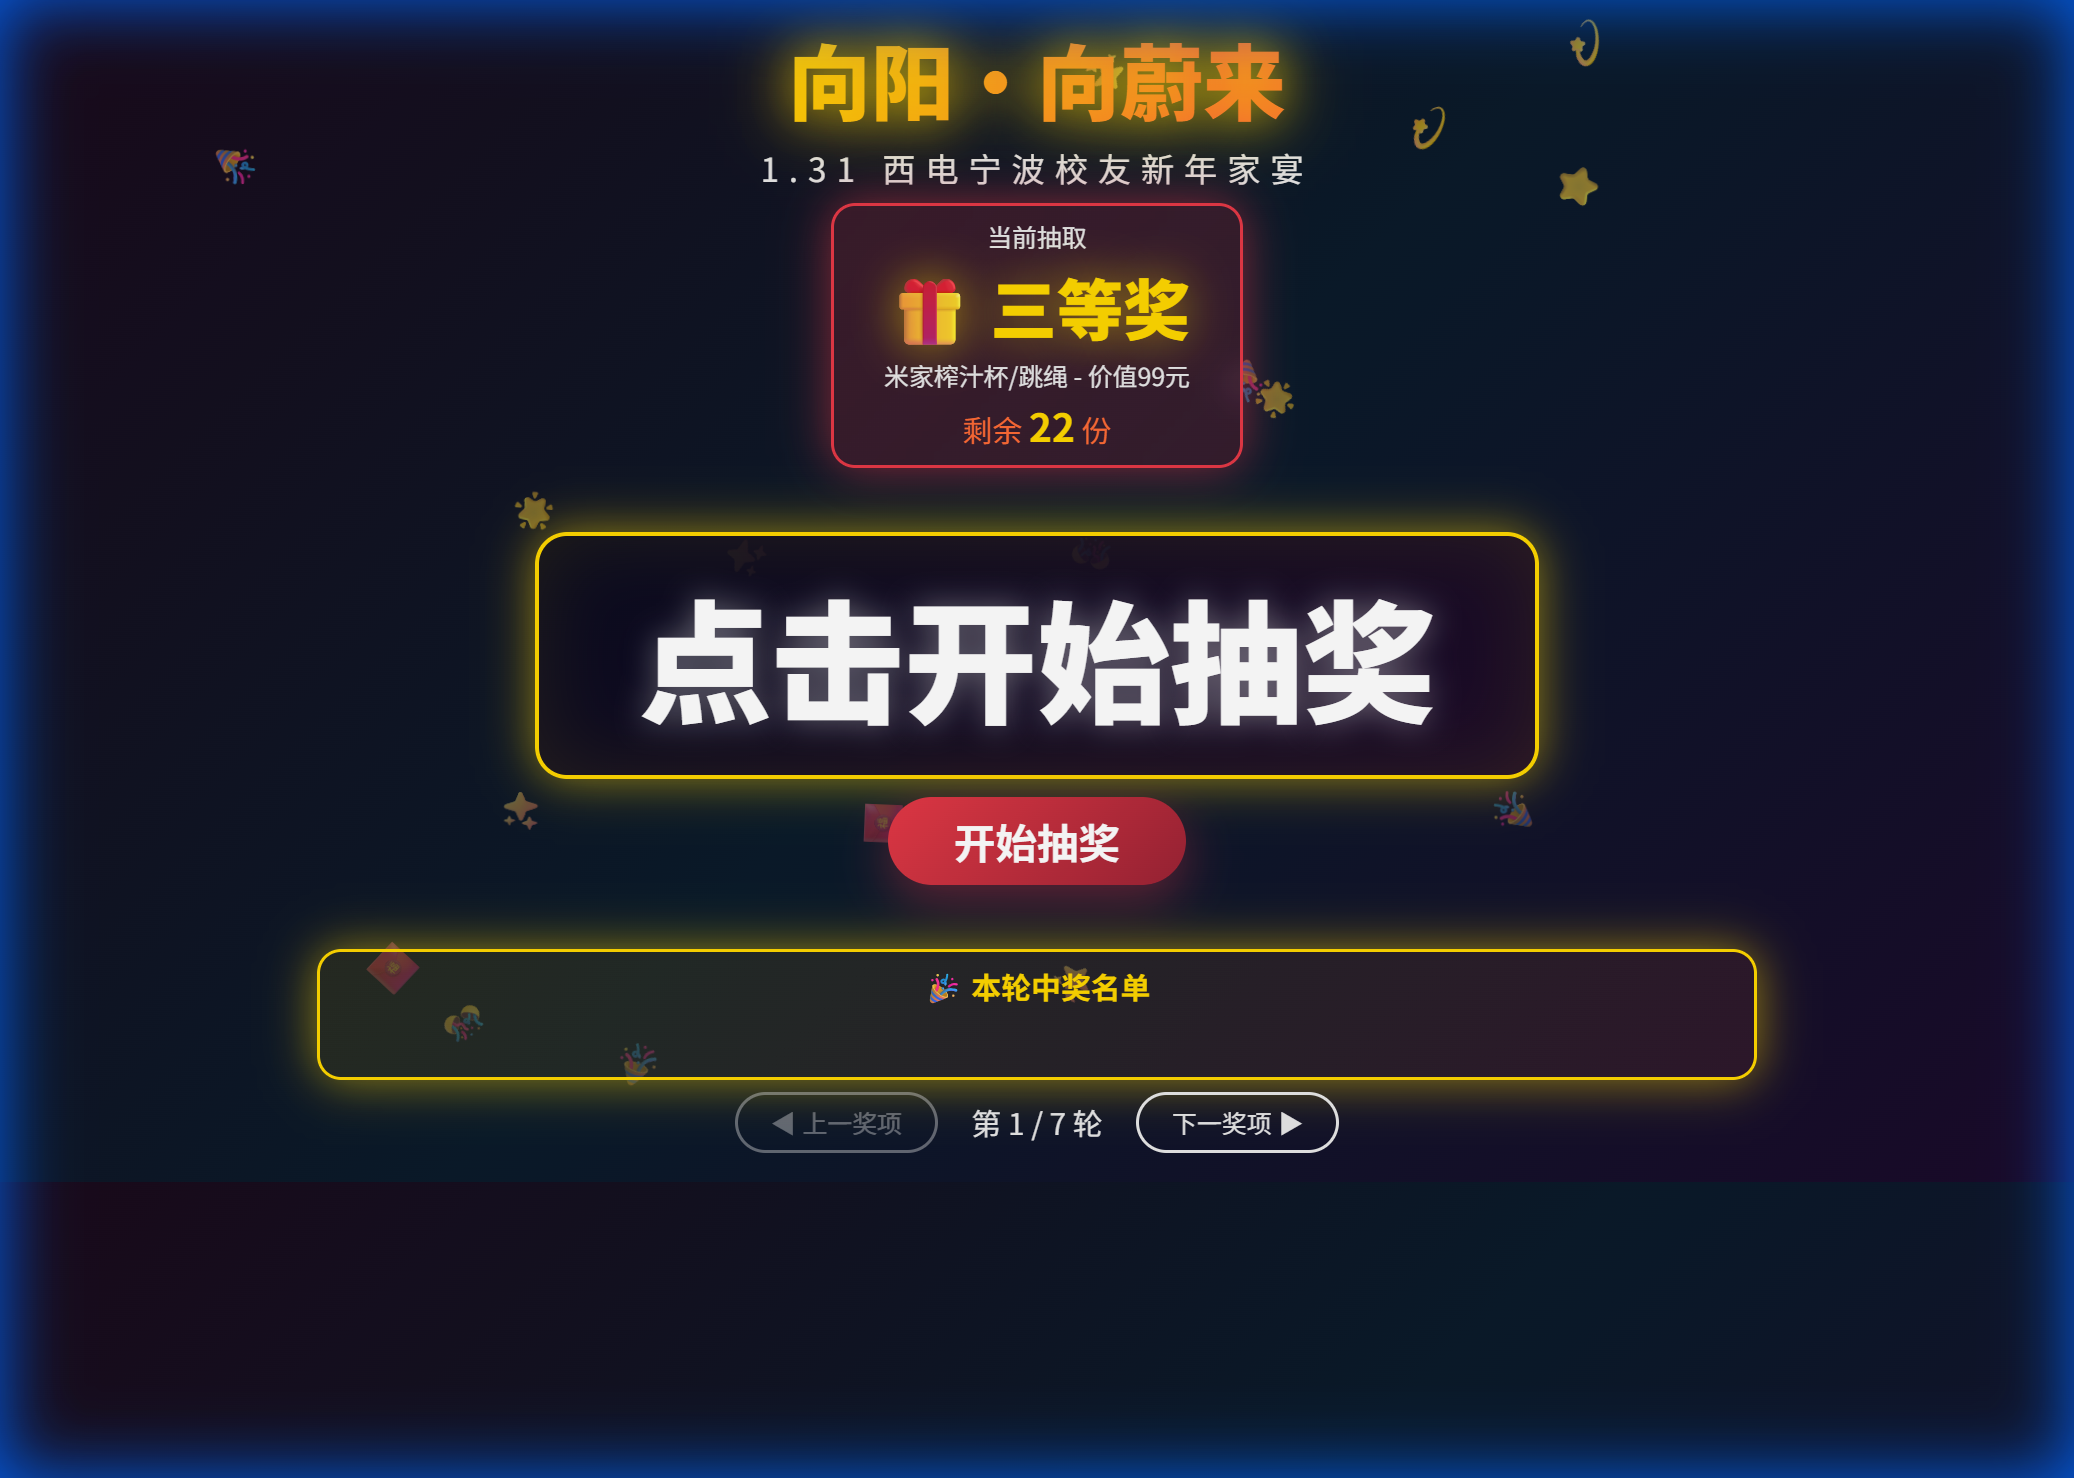
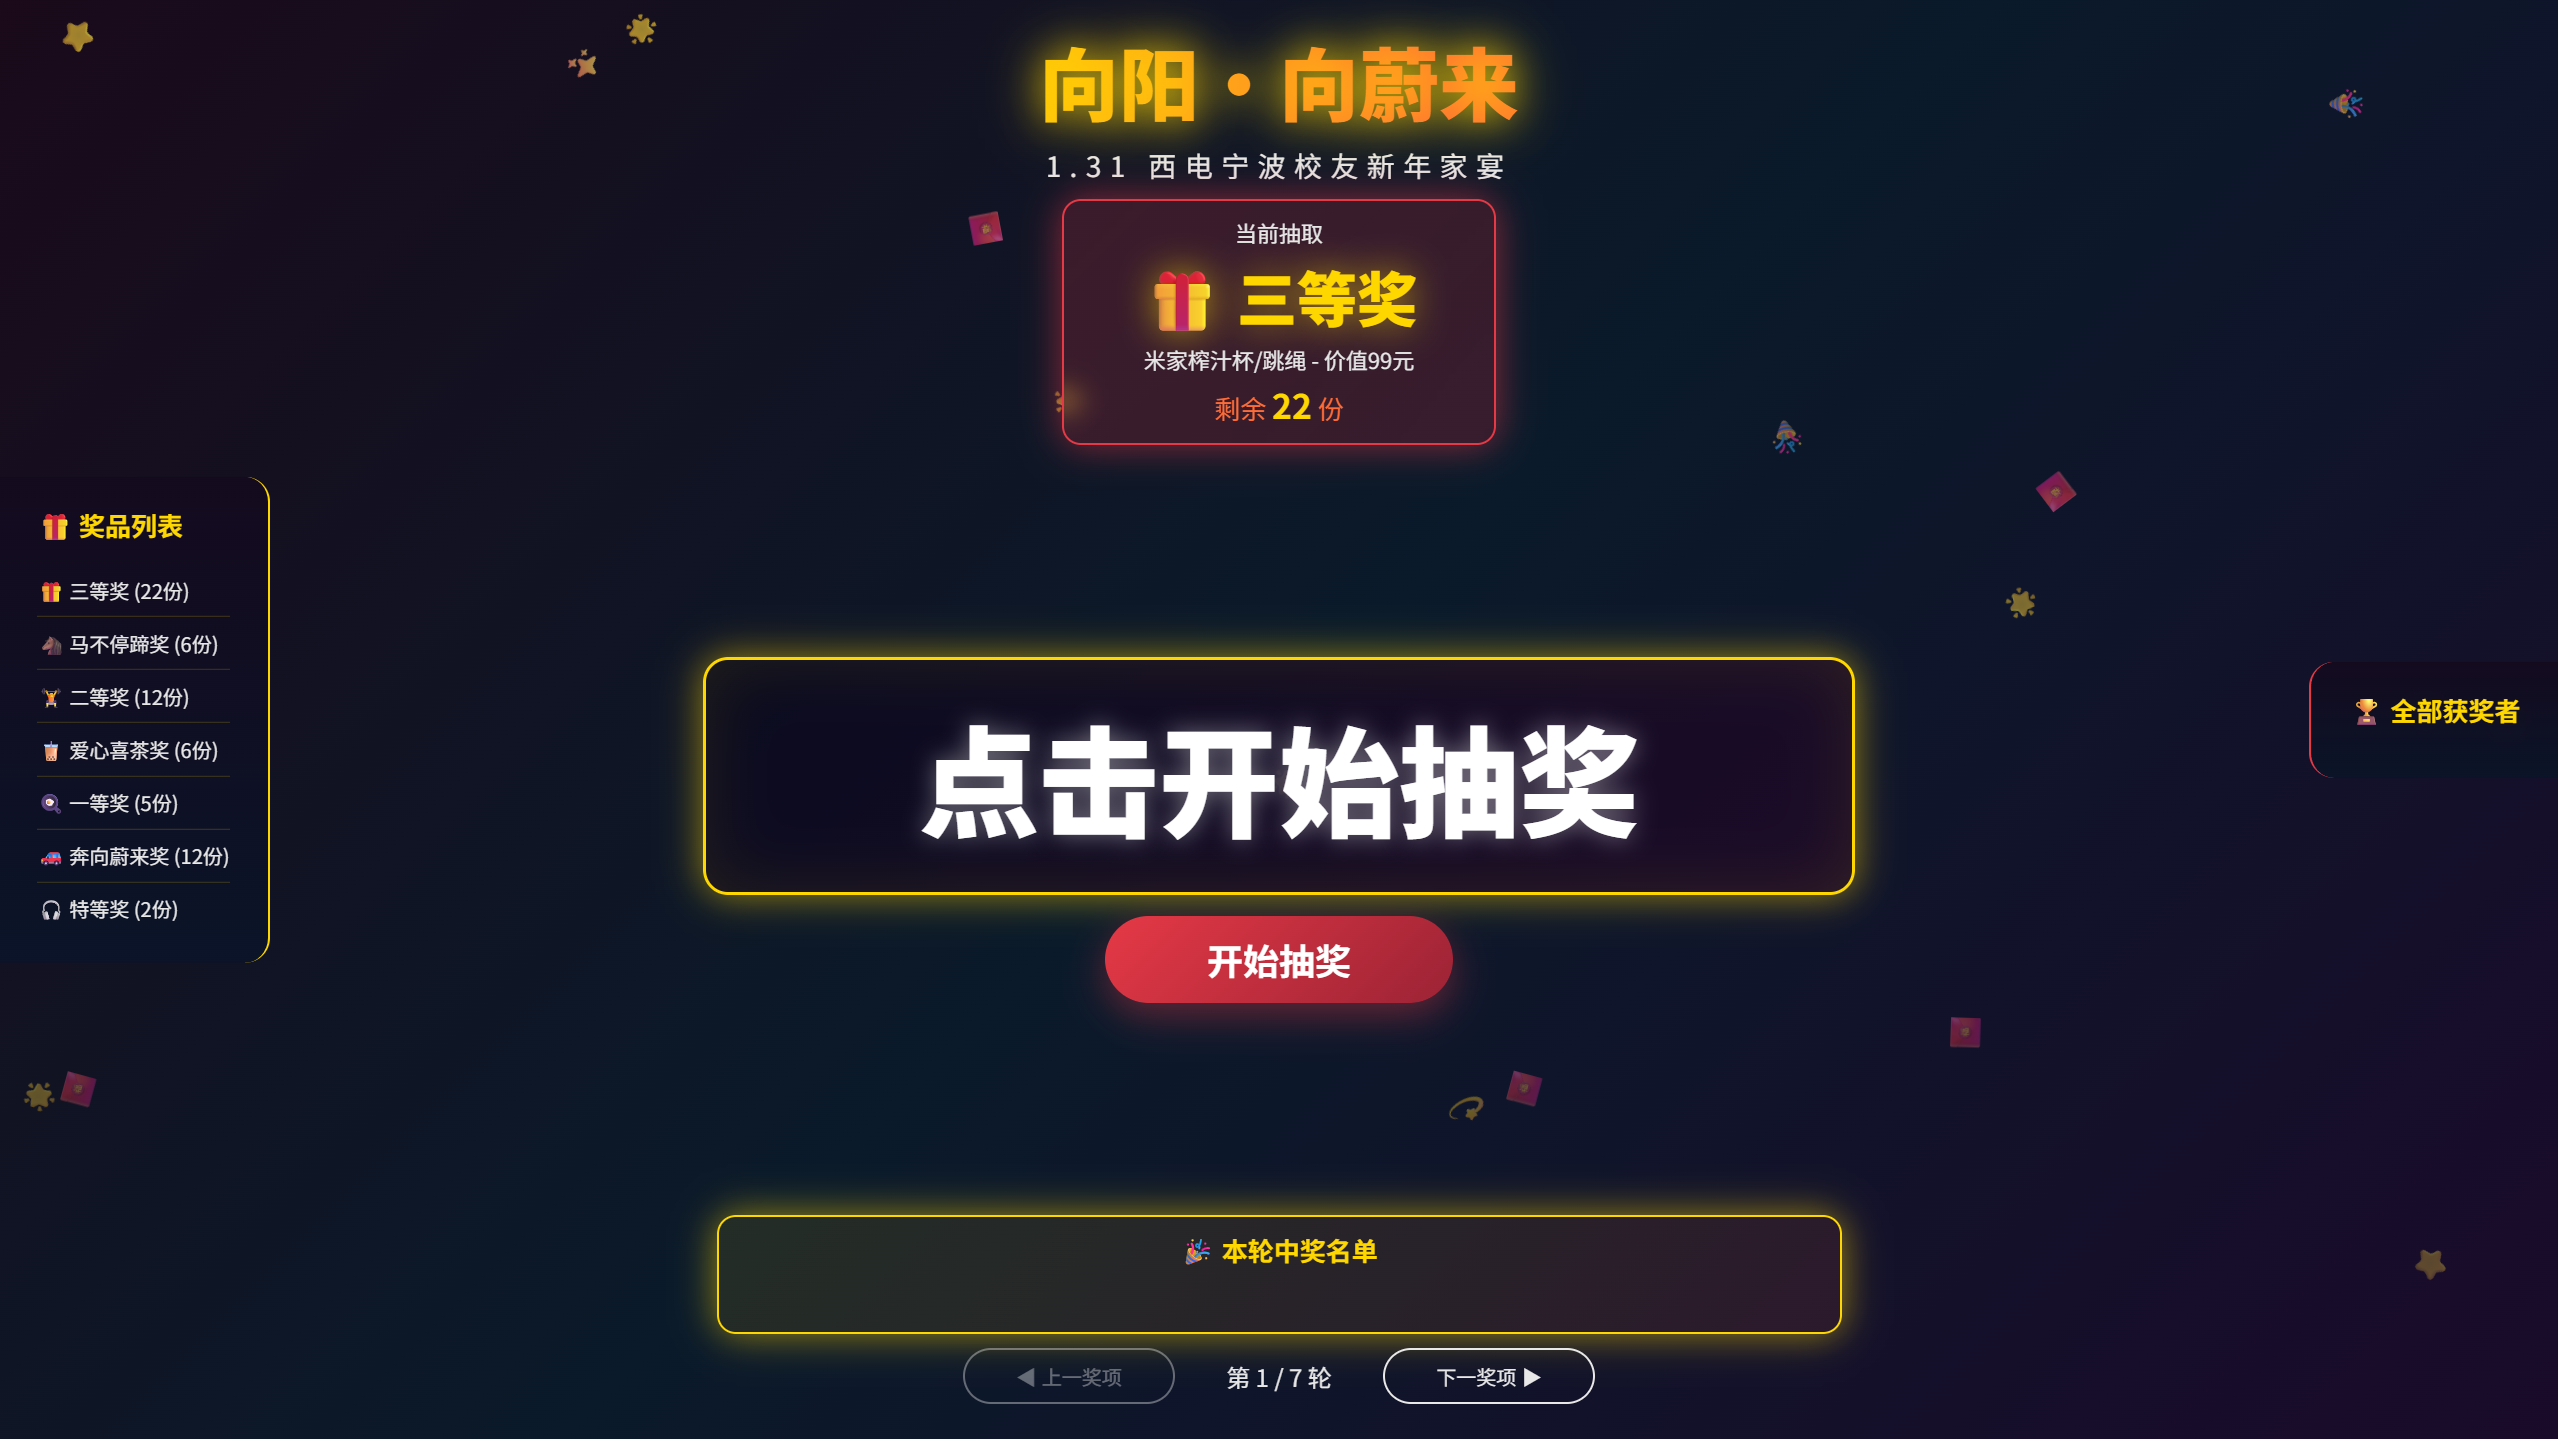
feat: add state persistence, secure random, reset button, and CLAUDE.md
- Add localStorage persistence for lottery state (survives refresh)
- Replace Math.random with crypto.getRandomValues (modulo bias elimination)
- Add reset button with confirmation dialog
- Add keyboard shortcuts (Space, Arrow keys)
- Optimize fireworks with DocumentFragment batch insertion
- Improve BGM autoplay retry logic
- Add CLAUDE.md for Claude Code guidance

diff --git a/script.js b/script.js
@@ -7,8 +7,15 @@
 // ========================================
 
 
-// 创建全局音效实例
-
+// 安全随机数生成（消除模偏差）
+function secureRandom(max) {
+    const array = new Uint32Array(1);
+    const limit = Math.floor(0xFFFFFFFF / max) * max;
+    do {
+        crypto.getRandomValues(array);
+    } while (array[0] >= limit);
+    return array[0] % max;
+}
 
 // 参与者名单
 const attendants = [
@@ -93,20 +100,73 @@ const fireworksContainer = document.getElementById('fireworksContainer');
 const fallingElements = document.getElementById('fallingElements');
 const bgm = document.getElementById('bgm');
 
+// 状态持久化
+function saveState() {
+    localStorage.setItem('lotteryState', JSON.stringify({
+        allWinners,
+        currentPrizeIndex,
+        remainingAttendants
+    }));
+}
+
+function loadState() {
+    const saved = localStorage.getItem('lotteryState');
+    if (!saved) return false;
+    try {
+        const state = JSON.parse(saved);
+        if (!Array.isArray(state.remainingAttendants) || typeof state.allWinners !== 'object') {
+            throw new Error('invalid');
+        }
+        allWinners = state.allWinners;
+        currentPrizeIndex = Math.min(state.currentPrizeIndex, prizeConfig.length - 1);
+        remainingAttendants = state.remainingAttendants;
+        return true;
+    } catch (e) {
+        localStorage.removeItem('lotteryState');
+        return false;
+    }
+}
+
+function resetState() {
+    if (!confirm('确定要重置所有抽奖结果吗？')) return;
+    localStorage.removeItem('lotteryState');
+    currentPrizeIndex = 0;
+    remainingAttendants = [...attendants];
+    allWinners = {};
+    prizeConfig.forEach(prize => { allWinners[prize.name] = []; });
+    currentRoundWinners = [];
+    updatePrizeDisplay();
+    renderAllWinners();
+    renderPrizeList();
+    updatePrizeListHighlight();
+}
+
 // 初始化
 function init() {
+    // 初始化每个奖项的获奖者数组（先初始化再加载，确保结构完整）
+    prizeConfig.forEach(prize => {
+        allWinners[prize.name] = [];
+    });
+
+    // 尝试恢复上次状态
+    loadState();
+
     updatePrizeDisplay();
     renderPrizeList();
+    renderAllWinners();
     initFallingElements();
     playBgm();
 
     lotteryBtn.addEventListener('click', handleLotteryClick);
     prevPrizeBtn.addEventListener('click', () => changePrize(-1));
     nextPrizeBtn.addEventListener('click', () => changePrize(1));
+    document.getElementById('resetBtn').addEventListener('click', resetState);
 
-    // 初始化每个奖项的获奖者数组
-    prizeConfig.forEach(prize => {
-        allWinners[prize.name] = [];
+    // 键盘快捷键
+    document.addEventListener('keydown', (e) => {
+        if (e.code === 'Space') { e.preventDefault(); handleLotteryClick(); }
+        if (e.code === 'ArrowLeft') changePrize(-1);
+        if (e.code === 'ArrowRight') changePrize(1);
     });
 }
 
@@ -138,18 +198,15 @@ function updatePrizeDisplay() {
     if (remaining <= 0) {
         nameDisplay.textContent = "本奖项已抽完";
         lotteryBtn.disabled = true;
-        lotteryBtn.style.opacity = "0.5";
     } else {
         nameDisplay.textContent = "点击开始抽奖";
         lotteryBtn.disabled = false;
-        lotteryBtn.style.opacity = "1";
     }
 
     // 检查是否还有人可抽
     if (remainingAttendants.length === 0) {
         nameDisplay.textContent = "所有人已中奖";
         lotteryBtn.disabled = true;
-        lotteryBtn.style.opacity = "0.5";
     }
 }
 
@@ -244,7 +301,7 @@ function startRolling() {
     // 快速滚动名字
     let rollSpeed = 50;
     rollInterval = setInterval(() => {
-        const randomIndex = Math.floor(Math.random() * remainingAttendants.length);
+        const randomIndex = secureRandom(remainingAttendants.length);
         nameDisplay.textContent = remainingAttendants[randomIndex];
     }, rollSpeed);
 }
@@ -258,8 +315,8 @@ function stopRolling() {
     lotteryBtn.querySelector('.btn-text').textContent = '开始抽奖';
     nameDisplay.classList.remove('rolling');
 
-    // 随机选择最终中奖者
-    const winnerIndex = Math.floor(Math.random() * remainingAttendants.length);
+    // 随机选择最终中奖者（使用密码学安全随机数）
+    const winnerIndex = secureRandom(remainingAttendants.length);
     const winner = remainingAttendants[winnerIndex];
 
     // 从待抽名单中移除
@@ -284,25 +341,33 @@ function stopRolling() {
 
     // 触发烟花效果
     triggerFireworks();
+
+    // 持久化状态
+    saveState();
 }
 
-// 烟花效果
+// 烟花效果（使用 DocumentFragment 批量插入减少回流）
 function triggerFireworks() {
     const colors = ['#ffd700', '#ff6b35', '#e63946', '#ff1493', '#00ff88'];
+    const batchSize = 10;
+    const totalBatches = 5;
 
-    for (let i = 0; i < 50; i++) {
+    for (let batch = 0; batch < totalBatches; batch++) {
         setTimeout(() => {
-            const firework = document.createElement('div');
-            firework.className = 'firework';
-            firework.style.left = Math.random() * 100 + 'vw';
-            firework.style.top = Math.random() * 60 + 20 + 'vh';
-            firework.style.backgroundColor = colors[Math.floor(Math.random() * colors.length)];
-            firework.style.boxShadow = `0 0 10px ${firework.style.backgroundColor}`;
-
-            fireworksContainer.appendChild(firework);
-
-            setTimeout(() => firework.remove(), 1500);
-        }, i * 30);
+            const fragment = document.createDocumentFragment();
+            for (let i = 0; i < batchSize; i++) {
+                const firework = document.createElement('div');
+                firework.className = 'firework';
+                const color = colors[secureRandom(colors.length)];
+                firework.style.left = Math.random() * 100 + 'vw';
+                firework.style.top = Math.random() * 60 + 20 + 'vh';
+                firework.style.backgroundColor = color;
+                firework.style.boxShadow = `0 0 10px ${color}`;
+                firework.addEventListener('animationend', () => firework.remove());
+                fragment.appendChild(firework);
+            }
+            fireworksContainer.appendChild(fragment);
+        }, batch * 150);
     }
 }
 
@@ -321,20 +386,16 @@ function initFallingElements() {
     }
 }
 
-// 播放背景音乐
+// 播放背景音乐（持续尝试直到成功）
 function playBgm() {
-    bgm.volume = 0.5; // 设置初始音量
-    const playPromise = bgm.play();
-
-    if (playPromise !== undefined) {
-        playPromise.catch(error => {
-            console.log("自动播放被阻止，等待用户交互");
-            // 添加一次性点击事件来触发播放
-            document.body.addEventListener('click', () => {
-                bgm.play();
-            }, { once: true });
-        });
-    }
+    bgm.volume = 0.5;
+    const tryPlay = () => {
+        bgm.play().then(() => {
+            document.removeEventListener('click', tryPlay);
+        }).catch(() => {});
+    };
+    tryPlay();
+    document.addEventListener('click', tryPlay);
 }
 
 // 启动

diff --git a/style.css b/style.css
@@ -142,7 +142,6 @@ body {
     background-clip: text;
     -webkit-text-fill-color: transparent;
     animation: shine 3s linear infinite;
-    text-shadow: var(--glow-gold);
     filter: drop-shadow(0 0 20px rgba(255, 215, 0, 0.5));
 }
 
@@ -312,16 +311,15 @@ body {
     transform: translateY(0);
 }
 
+.lottery-btn:disabled {
+    opacity: 0.5;
+    cursor: not-allowed;
+    transform: none;
+    box-shadow: none;
+}
+
 .lottery-btn.running {
     background: linear-gradient(135deg, var(--warm-orange), var(--primary-red));
-}
-
-.lottery-btn.running .btn-text::after {
-    content: '停止抽奖';
-}
-
-.lottery-btn.running .btn-text {
-    font-size: 0;
 }
 
 .btn-glow {
@@ -432,6 +430,18 @@ body {
 .round-indicator {
     font-size: clamp(0.9rem, 1.8vw, 1.2rem);
     color: var(--text-light);
+}
+
+.reset-btn {
+    border-color: var(--primary-red);
+    color: var(--primary-red);
+    margin-left: 1vw;
+}
+
+.reset-btn:hover {
+    background: var(--primary-red);
+    border-color: var(--primary-red);
+    color: var(--text-white);
 }
 
 /* ========================================

diff --git a/index.html b/index.html
@@ -7,6 +7,9 @@
     <title>向阳·向蔚来 - 西电宁波校友新年家宴抽奖</title>
     <link rel="stylesheet" href="style.css">
     <link href="https://fonts.googleapis.com/css2?family=Noto+Sans+SC:wght@400;700;900&display=swap" rel="stylesheet">
+    <style>
+        body { font-family: 'Noto Sans SC', -apple-system, BlinkMacSystemFont, 'Segoe UI', sans-serif; }
+    </style>
 </head>
 
 <body>
@@ -66,6 +69,7 @@
             <button class="nav-btn" id="prevPrize" disabled>◀ 上一奖项</button>
             <span class="round-indicator" id="roundIndicator">第 1 / 7 轮</span>
             <button class="nav-btn" id="nextPrize">下一奖项 ▶</button>
+            <button class="nav-btn reset-btn" id="resetBtn">🔄 重置</button>
         </section>
     </div>
 

diff --git a/CLAUDE.md b/CLAUDE.md
@@ -1,0 +1,42 @@
+# CLAUDE.md
+
+This file provides guidance to Claude Code (claude.ai/code) when working with code in this repository.
+
+## Project Overview
+
+A live lottery/raffle system built for the Xidian University Ningbo Alumni New Year banquet ("向阳·向蔚来"). Pure static frontend — HTML/CSS/JS with no build tools, no framework, no dependencies.
+
+## Running
+
+Open `index.html` directly in a browser (Chrome/Edge recommended). Press F11 for fullscreen. No build step, no server required.
+
+For local development with a server: `npx serve .` or `python -m http.server`.
+
+## Architecture
+
+Three files make up the entire app:
+
+- `index.html` — page structure with semantic sections: header, prize display, lottery rolling area, winner list, navigation controls, and two fixed sidebars (prize list left, all winners right)
+- `style.css` — dark neon theme with CSS custom properties in `:root`, keyframe animations (fireworks, falling elements, winner glow, name pulse), responsive breakpoints that hide sidebars below 1200px width
+- `script.js` — all application logic in a single file:
+  - `attendants[]` array and `prizeConfig[]` array are the data sources (edit these to customize)
+  - State: `currentPrizeIndex`, `isRolling`, `remainingAttendants`, `allWinners` (keyed by prize name)
+  - `localStorage` persistence via `saveState()`/`loadState()` — survives page refresh
+  - `secureRandom()` uses `crypto.getRandomValues()` with modulo bias elimination
+  - Keyboard shortcuts: Space (start/stop), Left/Right arrows (switch prize)
+
+## Key Design Decisions
+
+- Winners are removed from `remainingAttendants` on draw — no duplicates possible across all prize rounds
+- Prize rounds are sequential (三等奖 → 马不停蹄奖 → 二等奖 → ... → 特等奖) but navigable via prev/next buttons
+- Fireworks use `DocumentFragment` for batch DOM insertion to reduce reflow
+- Background music auto-plays on first user click interaction
+- All UI text is in Chinese (zh-CN)
+
+## Customization
+
+To adapt for a different event, modify two arrays in `script.js`:
+1. `attendants` (line ~21) — participant name list
+2. `prizeConfig` (line ~34) — prize definitions with `name`, `desc`, `count`, `icon`
+
+Update the title/subtitle in `index.html` header section accordingly.
